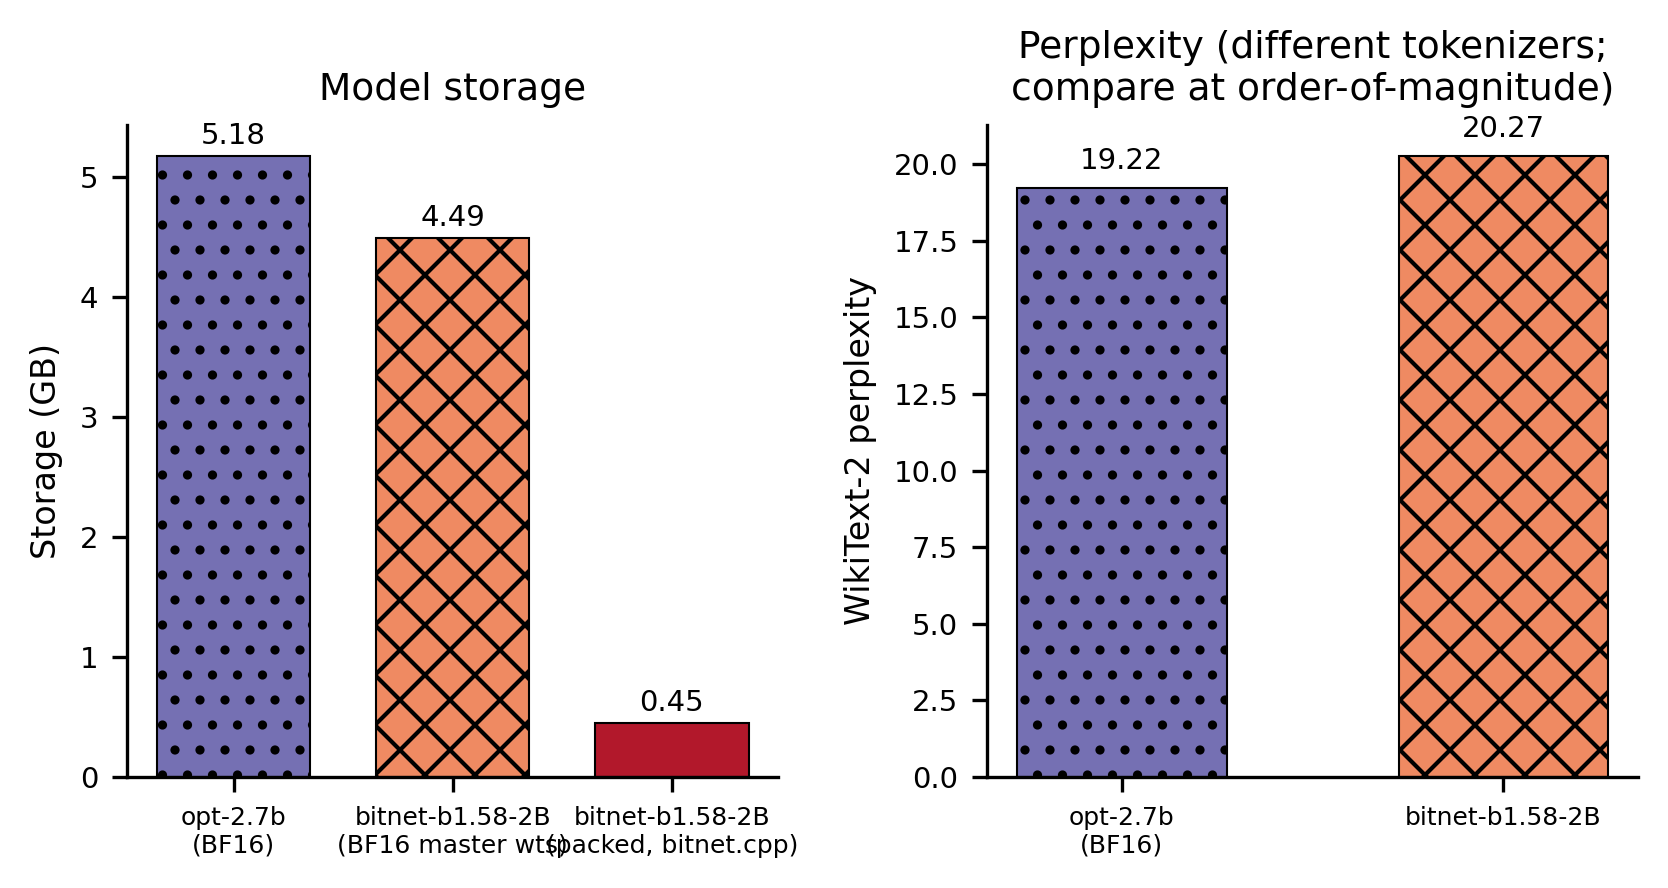
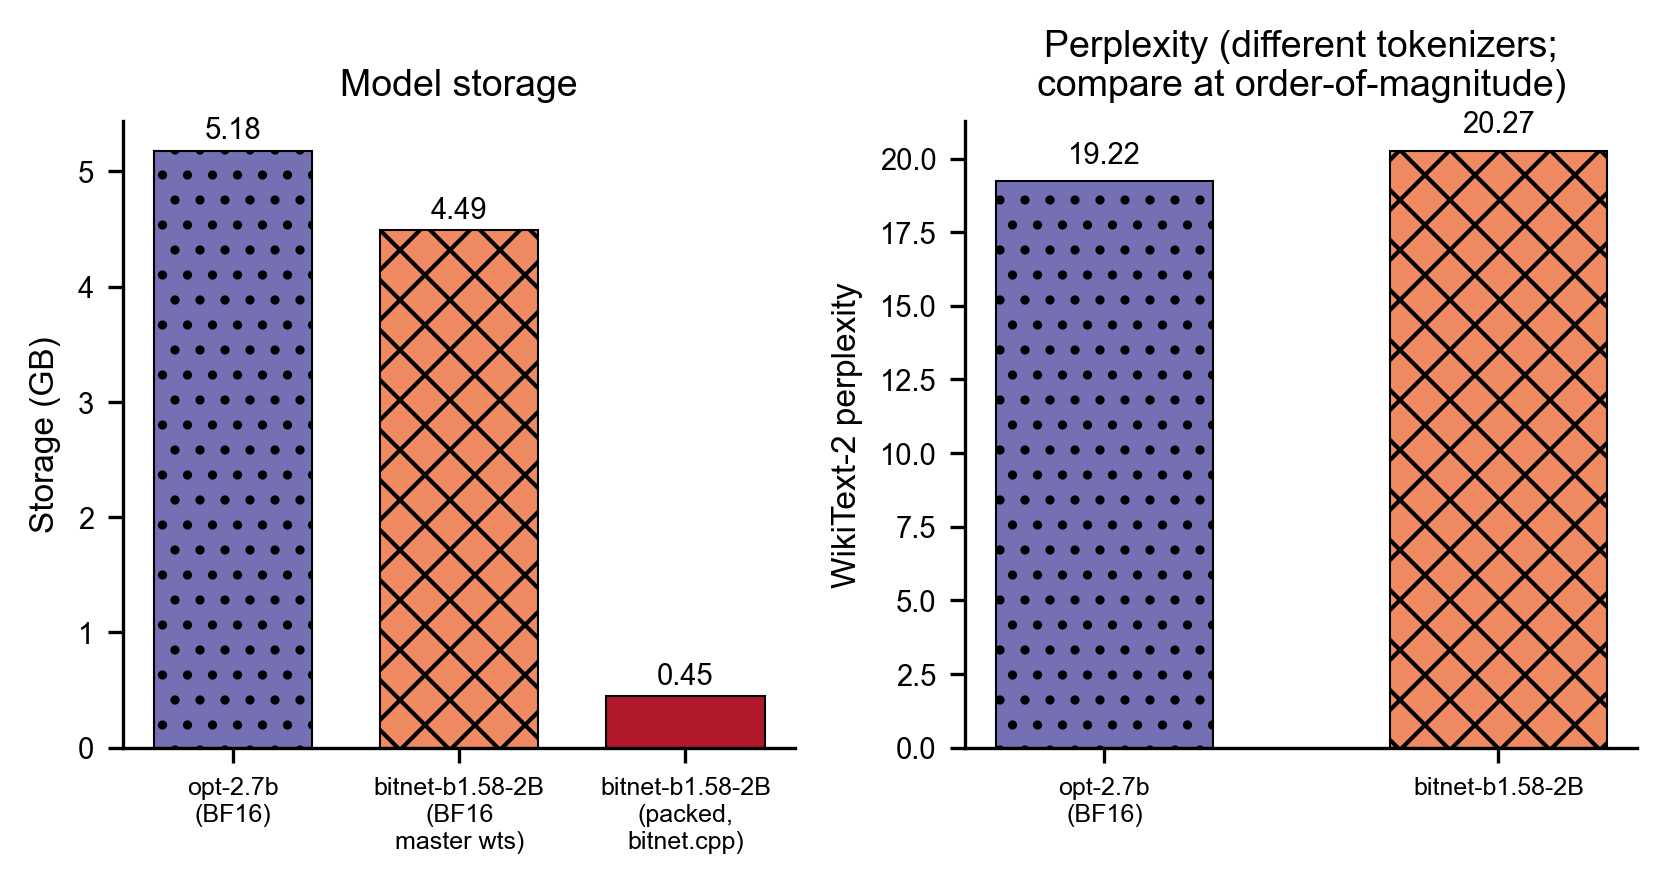
resolved text overlap in fig 20 ch8

Changed region(s): [[0.4991, 0.0306, 0.967, 0.9785], [0.0, 0.1223, 0.4679, 0.9785], [0.1872, 0.0612, 0.3743, 0.1223]]

diff --git a/ch8/ch8_ternary.py b/ch8/ch8_ternary.py
@@ -1084,9 +1084,9 @@ def run_realmodel(config: Config):
     storage_data = [
         (f"{config.baseline_model}\n(BF16)",
          base_bytes / (1024**3), COLORS["bf16"], HATCHES["bf16"]),
-        (f"{config.ternary_model}\n(BF16 master wts)",
+        (f"{config.ternary_model}\n(BF16\nmaster wts)",
          tern_bytes / (1024**3), COLORS["ternary_twn"], HATCHES["ternary"]),
-        (f"{config.ternary_model}\n(packed, bitnet.cpp)",
+        (f"{config.ternary_model}\n(packed,\nbitnet.cpp)",
          theoretical_bytes / (1024**3), COLORS["ternary"], ""),
     ]
     x = np.arange(len(storage_data))
